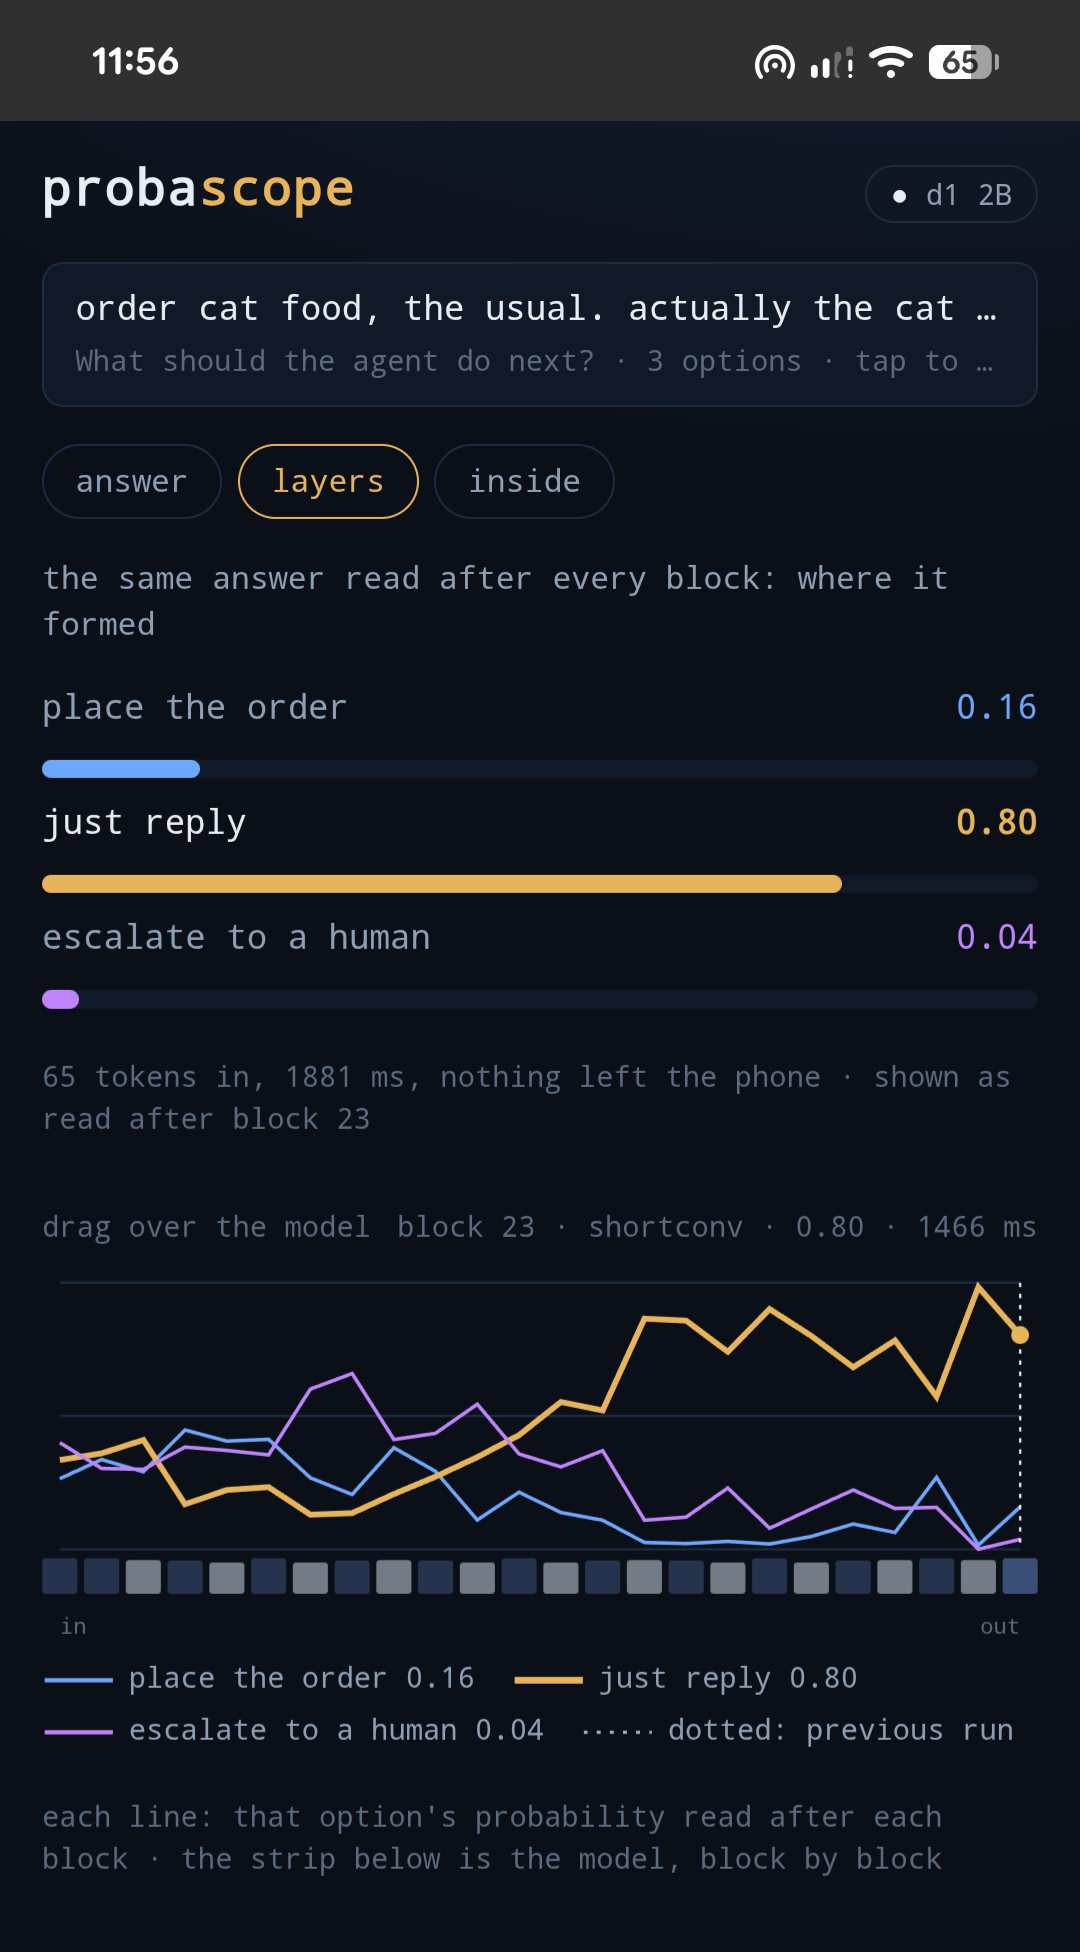
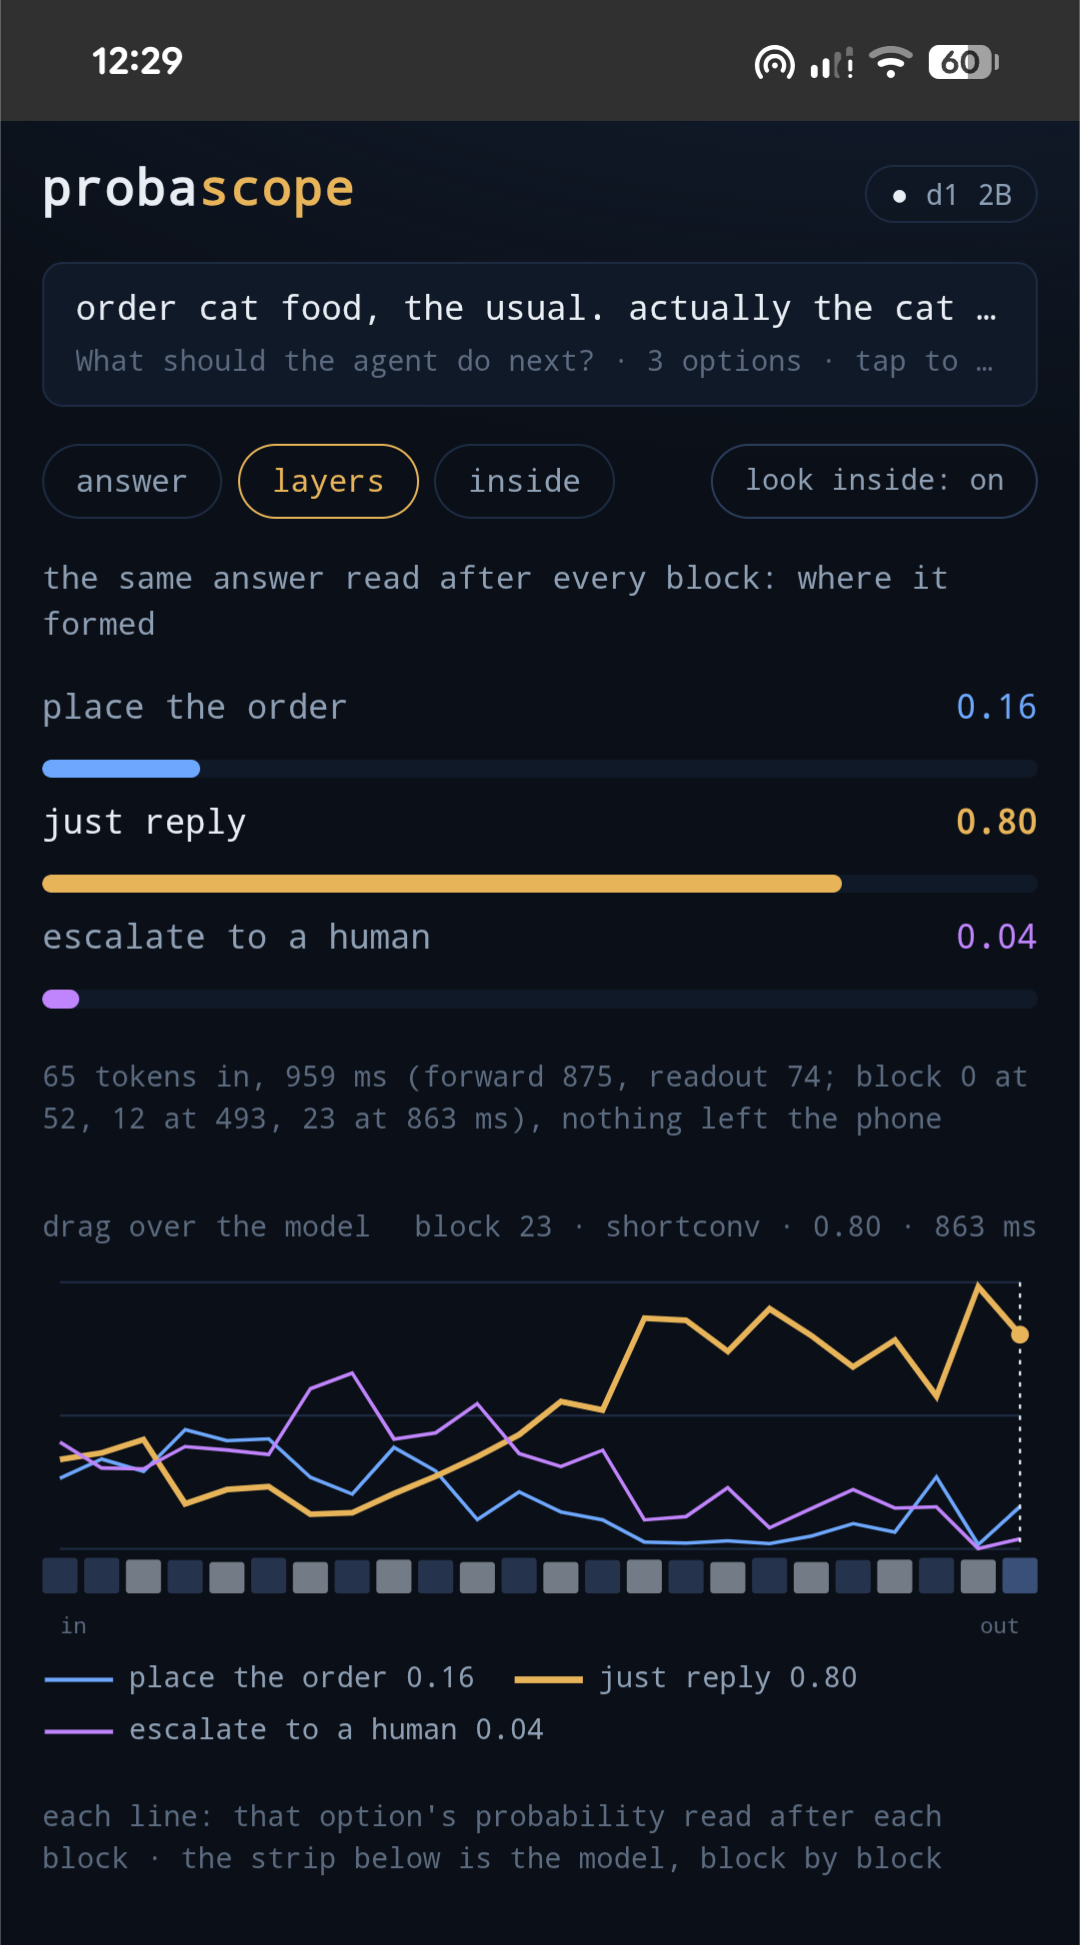
README: the screenshot and the numbers from the Pixel

diff --git a/README.md b/README.md
@@ -20,7 +20,7 @@ text went through. Nothing leaves the phone.
 3. Pick a model: **d1 2B** (1.1 GB, the full picture) or **d1-omni 600M** (407 MB, fast).
 4. Text, question, two or more options (none = yes/no), **decide**.
 
-Pixel 8a: d1 2B about 0.5 s per decision.
+Pixel 8a, d1 2B: about 0.5 s per decision, 0.96 s with the look inside (forward 875 ms, readout 74 ms, 65 tokens).
 
 ## What you see
 
